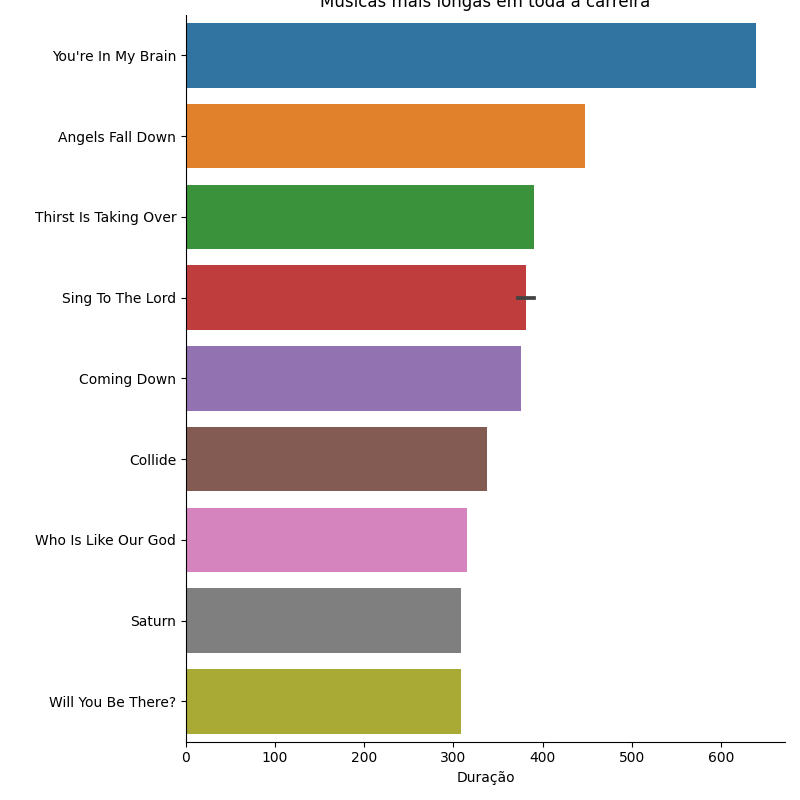
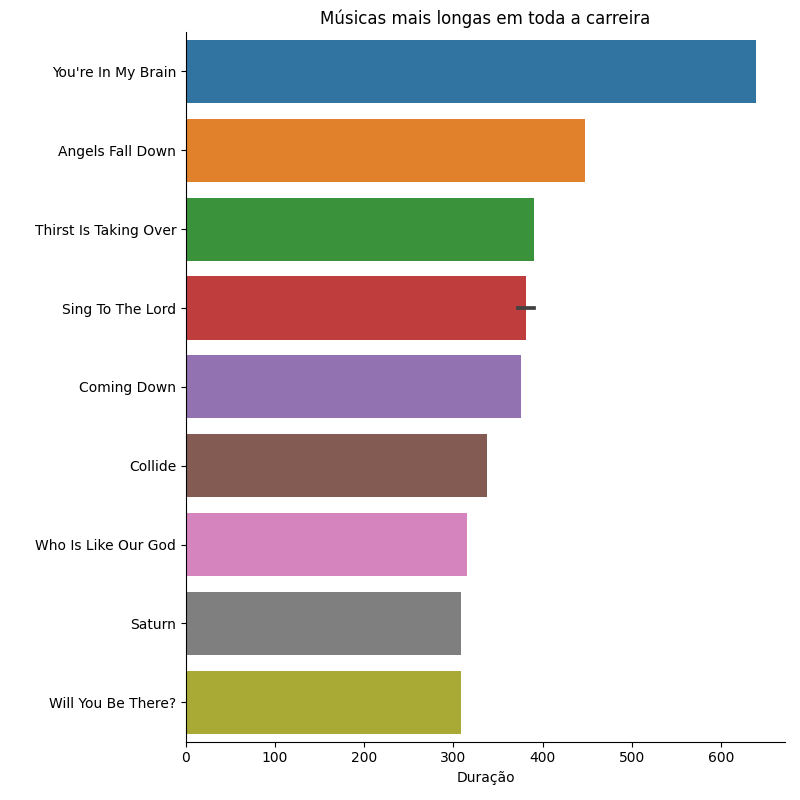
ajustando os graficos

diff --git a/graficos.py b/graficos.py
@@ -32,45 +32,51 @@ def grafico_tamanho_por_album(dataframe):
 #Músicas mais ouvidas e músicas menos ouvidas [em toda a história da banda ou artista]
 def grafico_musica_mais_longa_carreira(dataframe):
     mais_longas_carreira, mais_curtas_carreira = pg.musica_tamanho_carreira(dataframe)
-    p131 = sns.catplot(data=mais_longas_carreira, x="Duração", y="Músicas",kind="bar",height=8)
-    p131.set_axis_labels("Duração","")
+    grafico = sns.catplot(data=mais_longas_carreira, x="Duração", y="Músicas",kind="bar",height=8)
+    grafico.set_axis_labels("Duração","")
     plt.title("Músicas mais longas em toda a carreira")
+    plt.subplots_adjust(top=0.96)
     return plt.savefig('imagens\Músicas mais longas em toda a carreira.png')
 
 def grafico_musica_mais_curta_carreira(dataframe):
     mais_longas_carreira, mais_curtas_carreira = pg.musica_tamanho_carreira(dataframe)
-    p131 = sns.catplot(data=mais_curtas_carreira, x="Duração", y="Músicas",kind="bar",height=8)
-    p131.set_axis_labels("Duração","")
+    grafico = sns.catplot(data=mais_curtas_carreira, x="Duração", y="Músicas",kind="bar",height=8)
+    grafico.set_axis_labels("Duração","")
     plt.title("Músicas mais curtas em toda a carreira")
+    plt.subplots_adjust(top=0.96)
     return plt.savefig('imagens\Músicas mais curtas em toda a carreira.png')
 
 #Músicas mais longas e músicas mais curtas [em toda a história da banda ou artista]
 def grafico_musica_mais_ouvida_carreira(dataframe):
     mais_ouvidas_carreira, menos_ouvidas_carreira = pg.musica_ouvida_carreira(dataframe)
-    p141 = sns.catplot(data=mais_ouvidas_carreira, x="Popularidade", y="Músicas",kind="bar",height=8)
-    p141.set_axis_labels("Popularidade", "")
+    grafico = sns.catplot(data=mais_ouvidas_carreira, x="Popularidade", y="Músicas",kind="bar",height=8)
+    grafico.set_axis_labels("Popularidade", "")
     plt.title("Músicas mais populares em toda a carreira")
+    plt.subplots_adjust(top=0.96)
     return plt.savefig('imagens\Músicas mais populares em toda a carreira.png')
 
 def grafico_musica_menos_ouvida_carreira(dataframe):
     mais_ouvidas_carreira, menos_ouvidas_carreira = pg.musica_ouvida_carreira(dataframe)
-    p142 = sns.catplot(data=menos_ouvidas_carreira, x="Popularidade", y="Músicas",kind="bar",height=8)
-    p142.set_axis_labels("Popularidade", "")
+    grafico = sns.catplot(data=menos_ouvidas_carreira, x="Popularidade", y="Músicas",kind="bar",height=8)
+    grafico.set_axis_labels("Popularidade", "")
     plt.title("Músicas menos populares em toda a carreira")
+    plt.subplots_adjust(top=0.96)
     return plt.savefig('imagens\Músicas menos populares em toda a carreira.png')
 
 #Álbuns mais premiados
 def mais_premiado(dataframe):
     premiacao = pg.mais_premiado(dataframe)
-    p15 = sns.catplot(data=premiacao, x="Número de Prêmios", y="Álbuns",kind="bar",height=8)
+    grafico = sns.catplot(data=premiacao, x="Número de Prêmios", y="Álbuns",kind="bar",height=8)
     plt.title("Premiação dos álbuns")
+    plt.subplots_adjust(top=0.96)
     return plt.savefig('imagens\Premiação dos álbuns.png')
 
 #Existe alguma relação entre a duração da música e sua popularidade?
 def grafico_musica_popularidade(dataframe):
     popularidade = pg.musica_popularidade(dataframe)
-    p16 = sns.lineplot(data=popularidade, y="Média de Popularidade", x = "Intervalo de Duração")
+    grafico = sns.lineplot(data=popularidade, y="Média de Popularidade", x = "Intervalo de Duração")
     plt.title("Relação entre duração e popularidade")
+    plt.subplots_adjust(top=0.96)
     return plt.savefig('imagens\Relação entre duração e popularidade.png')
 
-##### Gráficos de perguntas 2 #####
+##### Gráficos de perguntas 3 #####

diff --git a/executargraficos.py b/executargraficos.py
@@ -18,11 +18,4 @@ gf.grafico_musica_mais_curta_carreira(df)
 gf.grafico_musica_mais_ouvida_carreira(df)
 gf.grafico_musica_menos_ouvida_carreira(df)
 gf.mais_premiado(df)
-
-
-
-
-
-
-gf.mais_premiado(df)
-plt.show()
+print("Ok")
